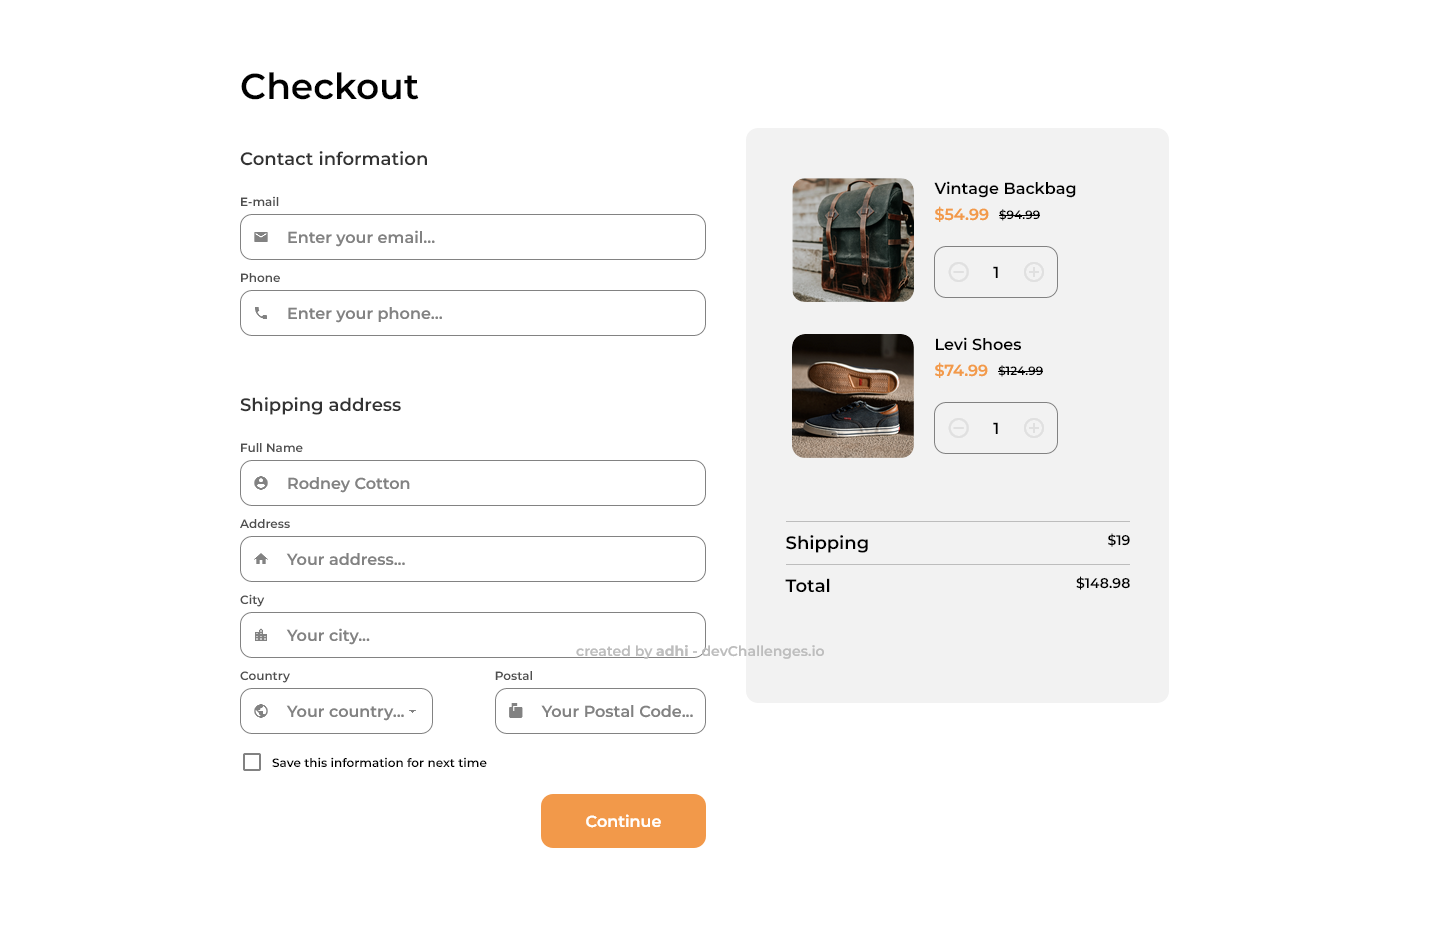
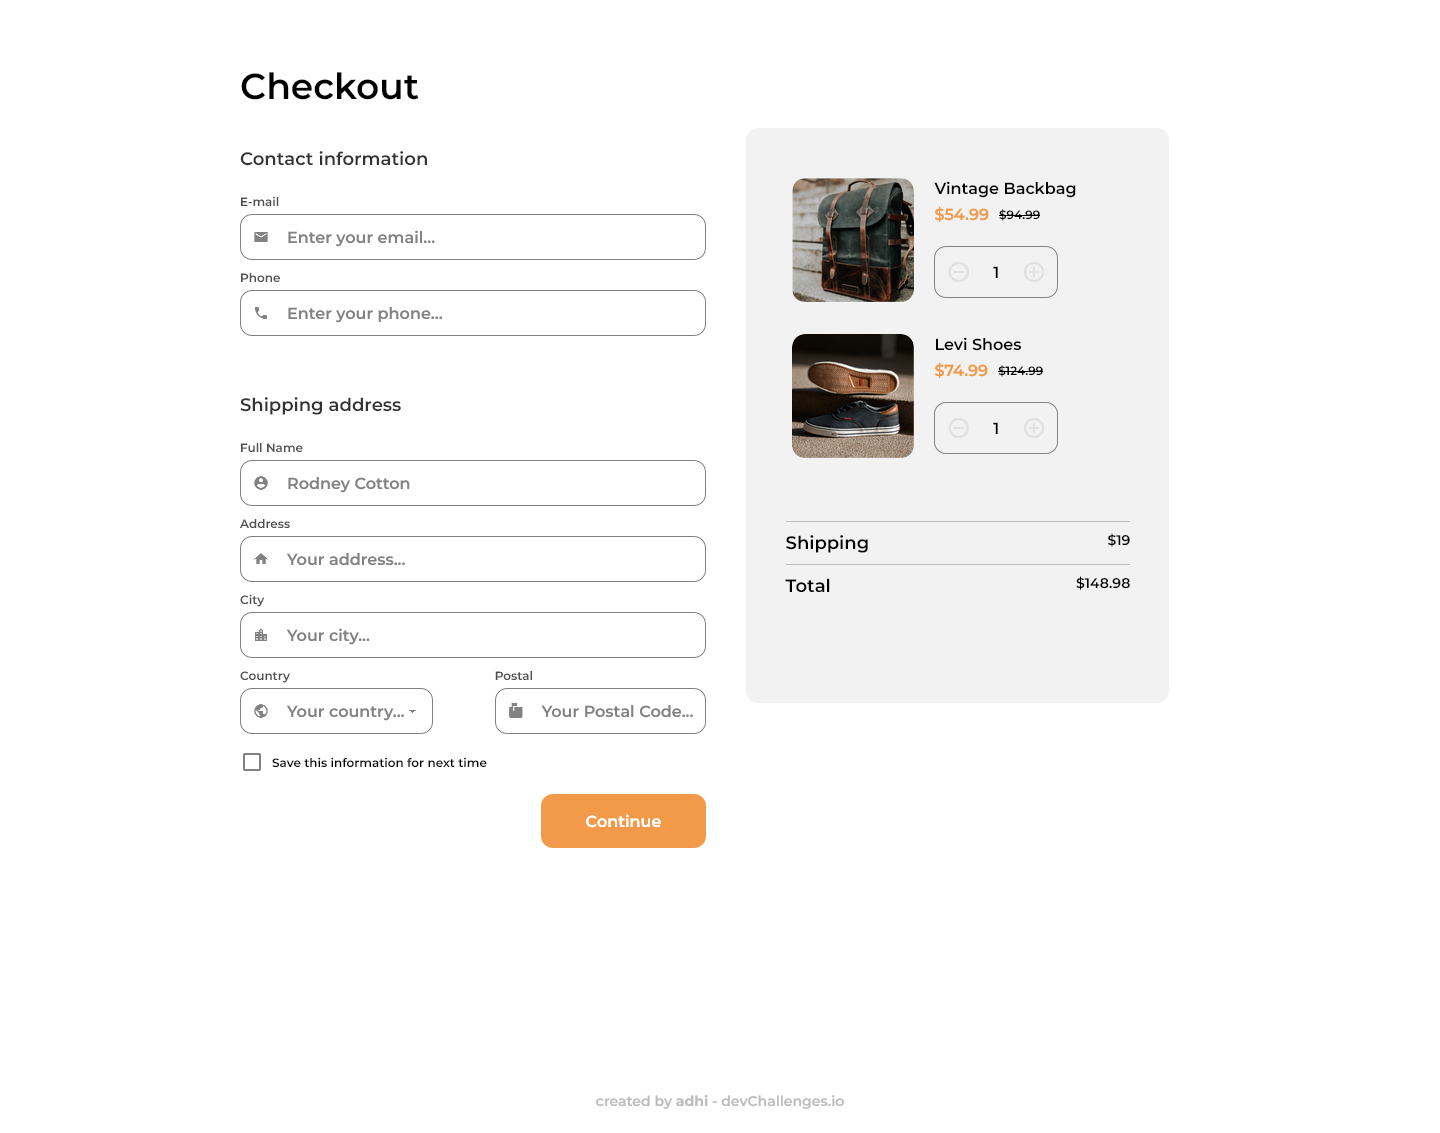
fixed footer and screenshot

diff --git a/style.css b/style.css
@@ -510,8 +510,6 @@ footer p {
     text-align: left;
   }
   footer p {
-    position: absolute;
-    bottom: 0;
-    left: 40%;
+    margin-top: 150px;
   }
 }
